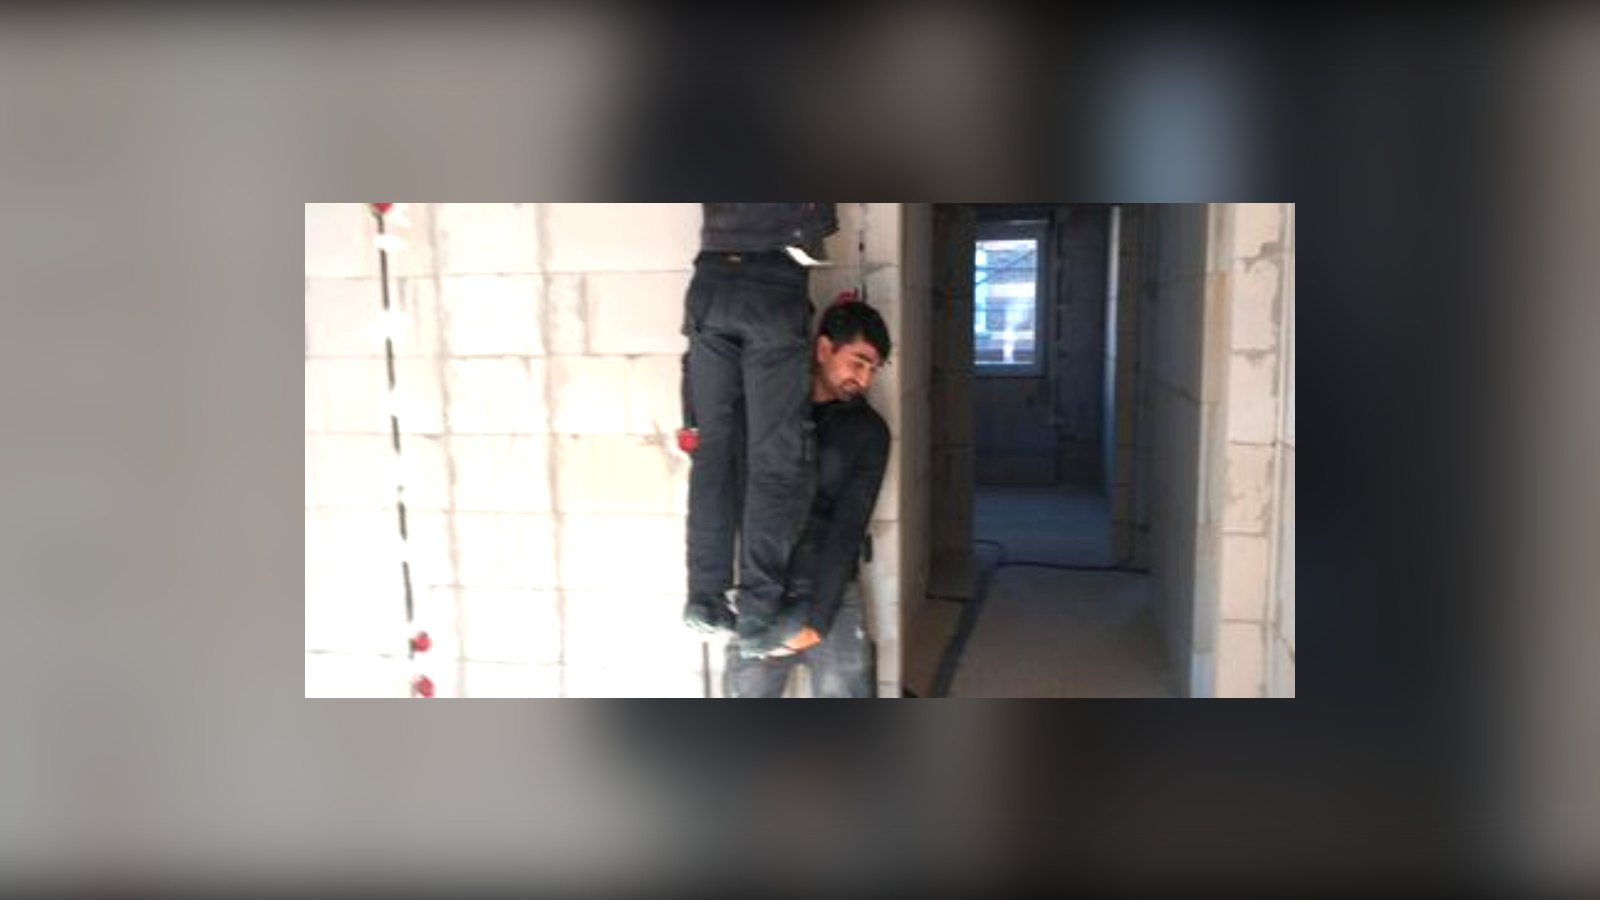
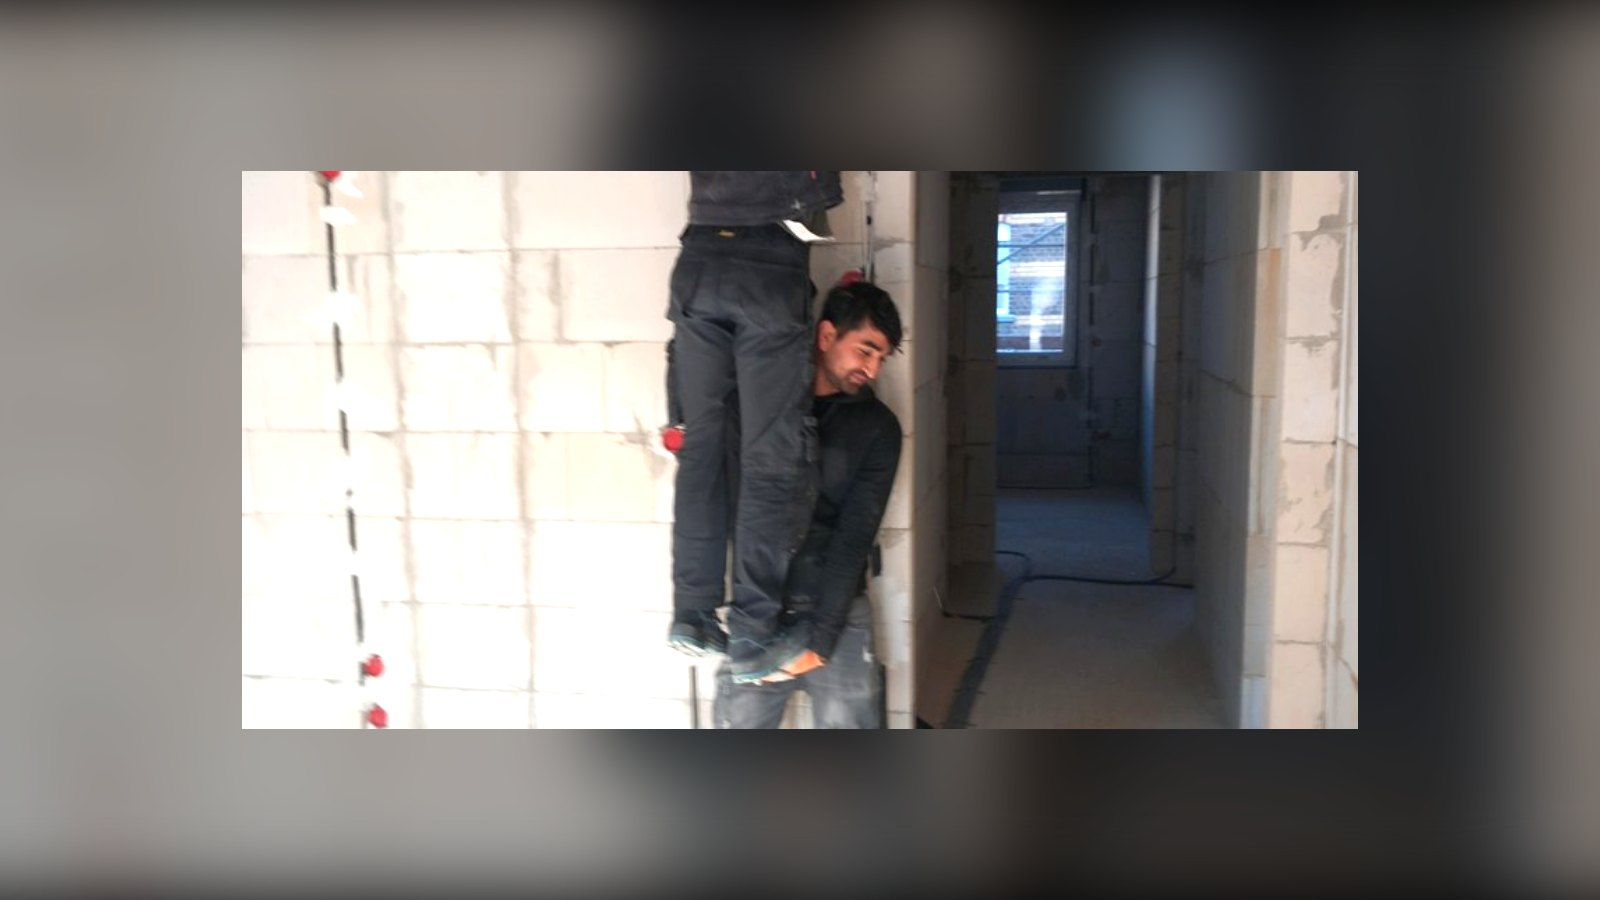
vorschau: claude/home-page-rdyw91

Changed region(s): [[0.125, 0.1867, 0.875, 0.8089], [0.3125, 0.6533, 0.375, 0.7156]]

diff --git a/vorschau/claude-home-page-rdyw91/index.html b/vorschau/claude-home-page-rdyw91/index.html
@@ -1150,7 +1150,7 @@
     <div class="hero-plan-img" data-bild="hero-eauto.jpg" data-deckung="0.71" data-quer="0.66"></div>
     <div class="hero-plan-img" data-bild="hero-abbruchhammer.jpg" data-deckung="0.70" data-quer="0.66"></div>
     <div class="hero-plan-img" data-bild="hero-solar.jpg" data-deckung="0.68" data-quer="0.66"></div>
-    <div class="hero-plan-img" data-bild="hero-montage.jpg" data-deckung="0.70" data-quer="0.74"></div>
+    <div class="hero-plan-img" data-bild="hero-montage.jpg" data-deckung="0.70" data-quer="0.66"></div>
     <div class="hero-plan-img" data-bild="waermepumpe-hero.jpg" data-deckung="0.74" data-quer="0.70"></div>
     <div class="hero-plan-img" data-bild="hero-4.jpg" data-deckung="0.74" data-quer="0.70"></div>
   </div>
